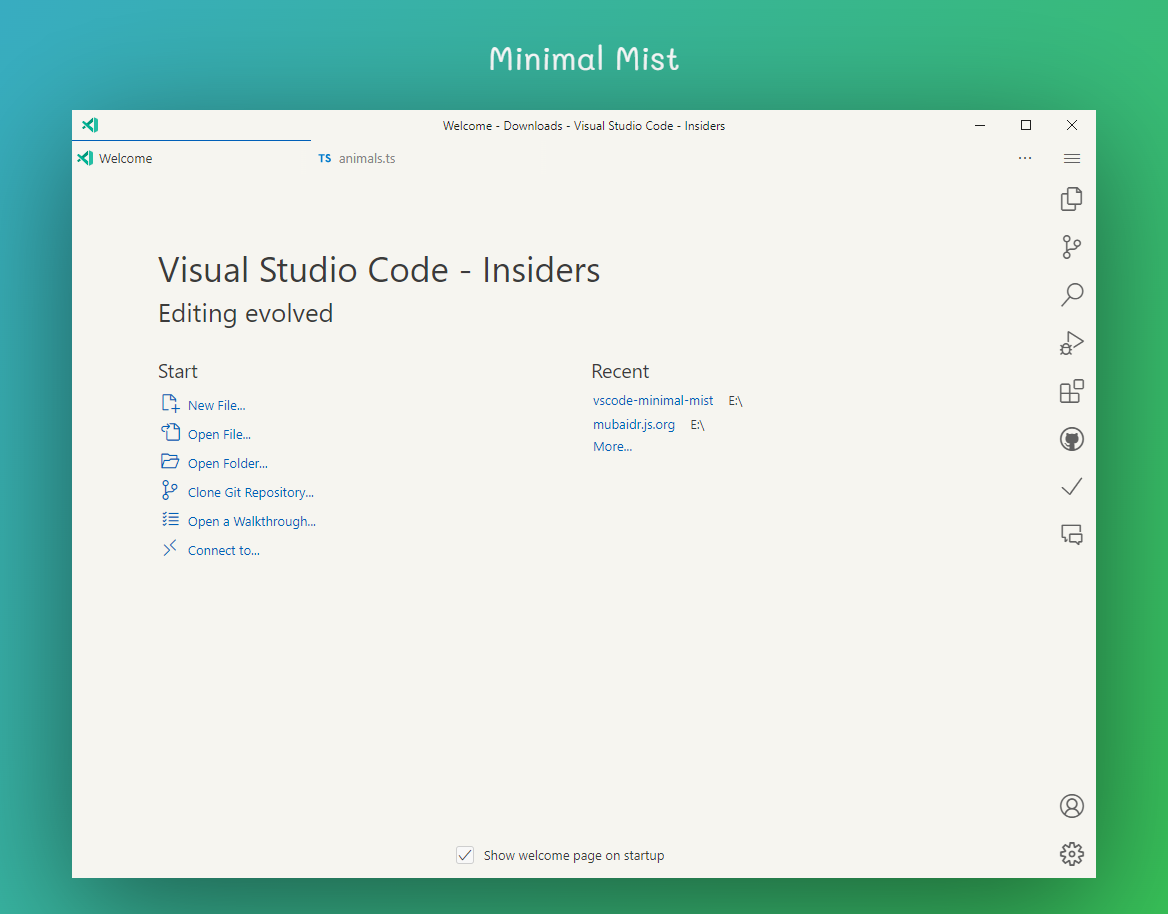
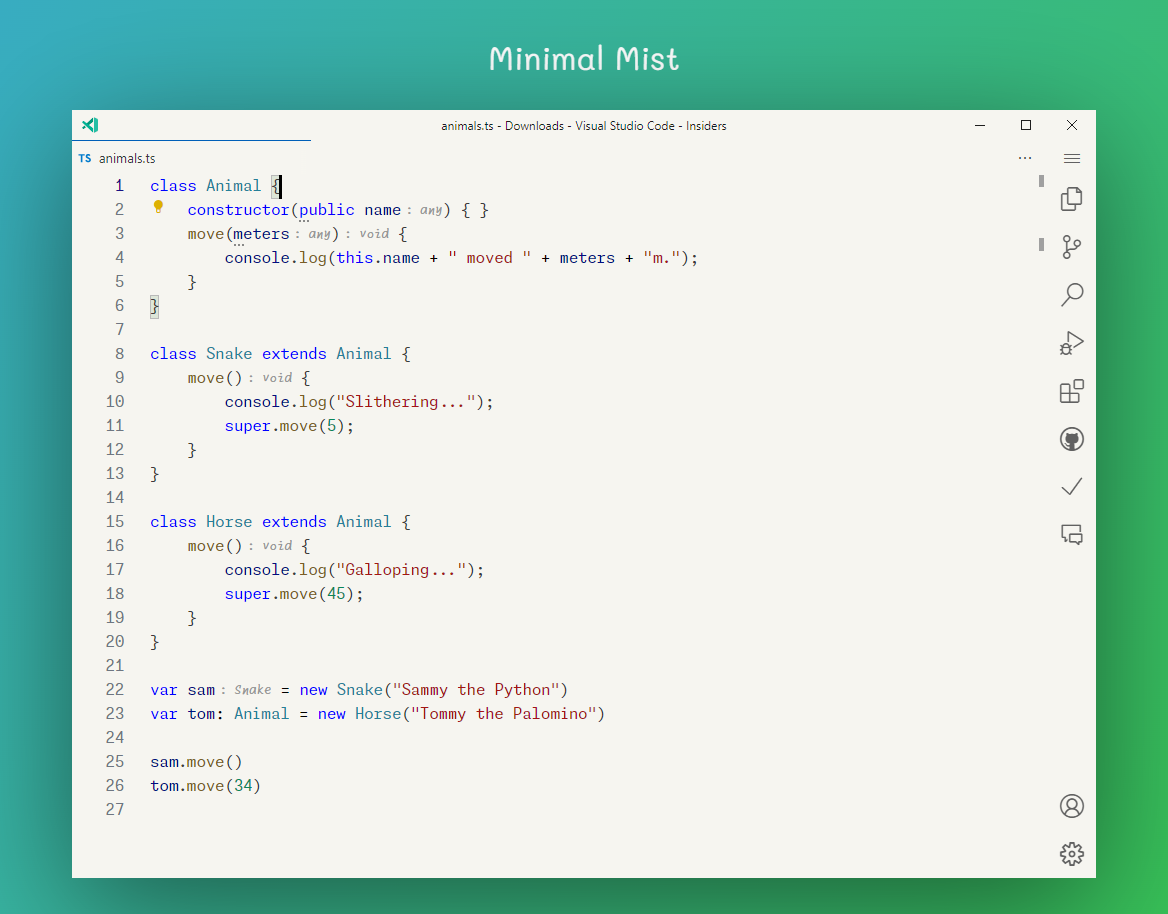
Fix preview images, add recommended settings

diff --git a/README.md b/README.md
@@ -23,6 +23,38 @@ Embrace the elegance of simplicity with Minimal Mist. Perfect for developers who
 
 <img src="media/typescript-banner-rounded.png"/>
 
+### File Explorer View
+
+<img src="media/explorer-banner-rounded.png"/>
+
 ### Welcome Screen
 
 <img src="media/welcome-banner-rounded.png"/>
+
+## Additional Settings for Minimal Wrokspace
+
+You can also use following settings (my current setup) to reduce clutter and make your workspace even more minimal, without scrificing any functionality. Add these settings to your `settings.json` file in VSCode to achieve the same look as in the screenshots above:
+
+```jsonc
+"editor.renderLineHighlight": "none",
+"editor.scrollbar.vertical": "hidden",
+"explorer.decorations.badges": false,
+"git.decorations.enabled": false,
+"window.commandCenter": false,
+"window.menuBarVisibility": "compact",
+"window.titleBarStyle": "custom",
+"workbench.editor.decorations.badges": false,
+"workbench.editor.decorations.colors": false,
+"workbench.editor.tabActionCloseVisibility": false,
+"workbench.editor.tabSizing": "fixed",
+"workbench.editor.tabSizingFixedMaxWidth": 240,
+"workbench.editor.tabSizingFixedMinWidth": 180,
+"workbench.layoutControl.enabled": false,
+"workbench.panel.defaultLocation": "right",
+"workbench.reduceMotion": "on",
+"workbench.sideBar.location": "right",
+"workbench.statusBar.visible": false,
+"workbench.tree.enableStickyScroll": false,
+"workbench.tree.indent": 22,
+"workbench.tree.renderIndentGuides": "none",
+```

diff --git a/CHANGELOG.md b/CHANGELOG.md
@@ -2,6 +2,10 @@
 
 All notable changes to the "minimal-mist" extension will be documented in this file.
 
+## [1.0.3] - 2024-10-07
+
+- Fix preview images
+
 ## [1.0.2] - 2024-10-07
 
 - Fix preview images
